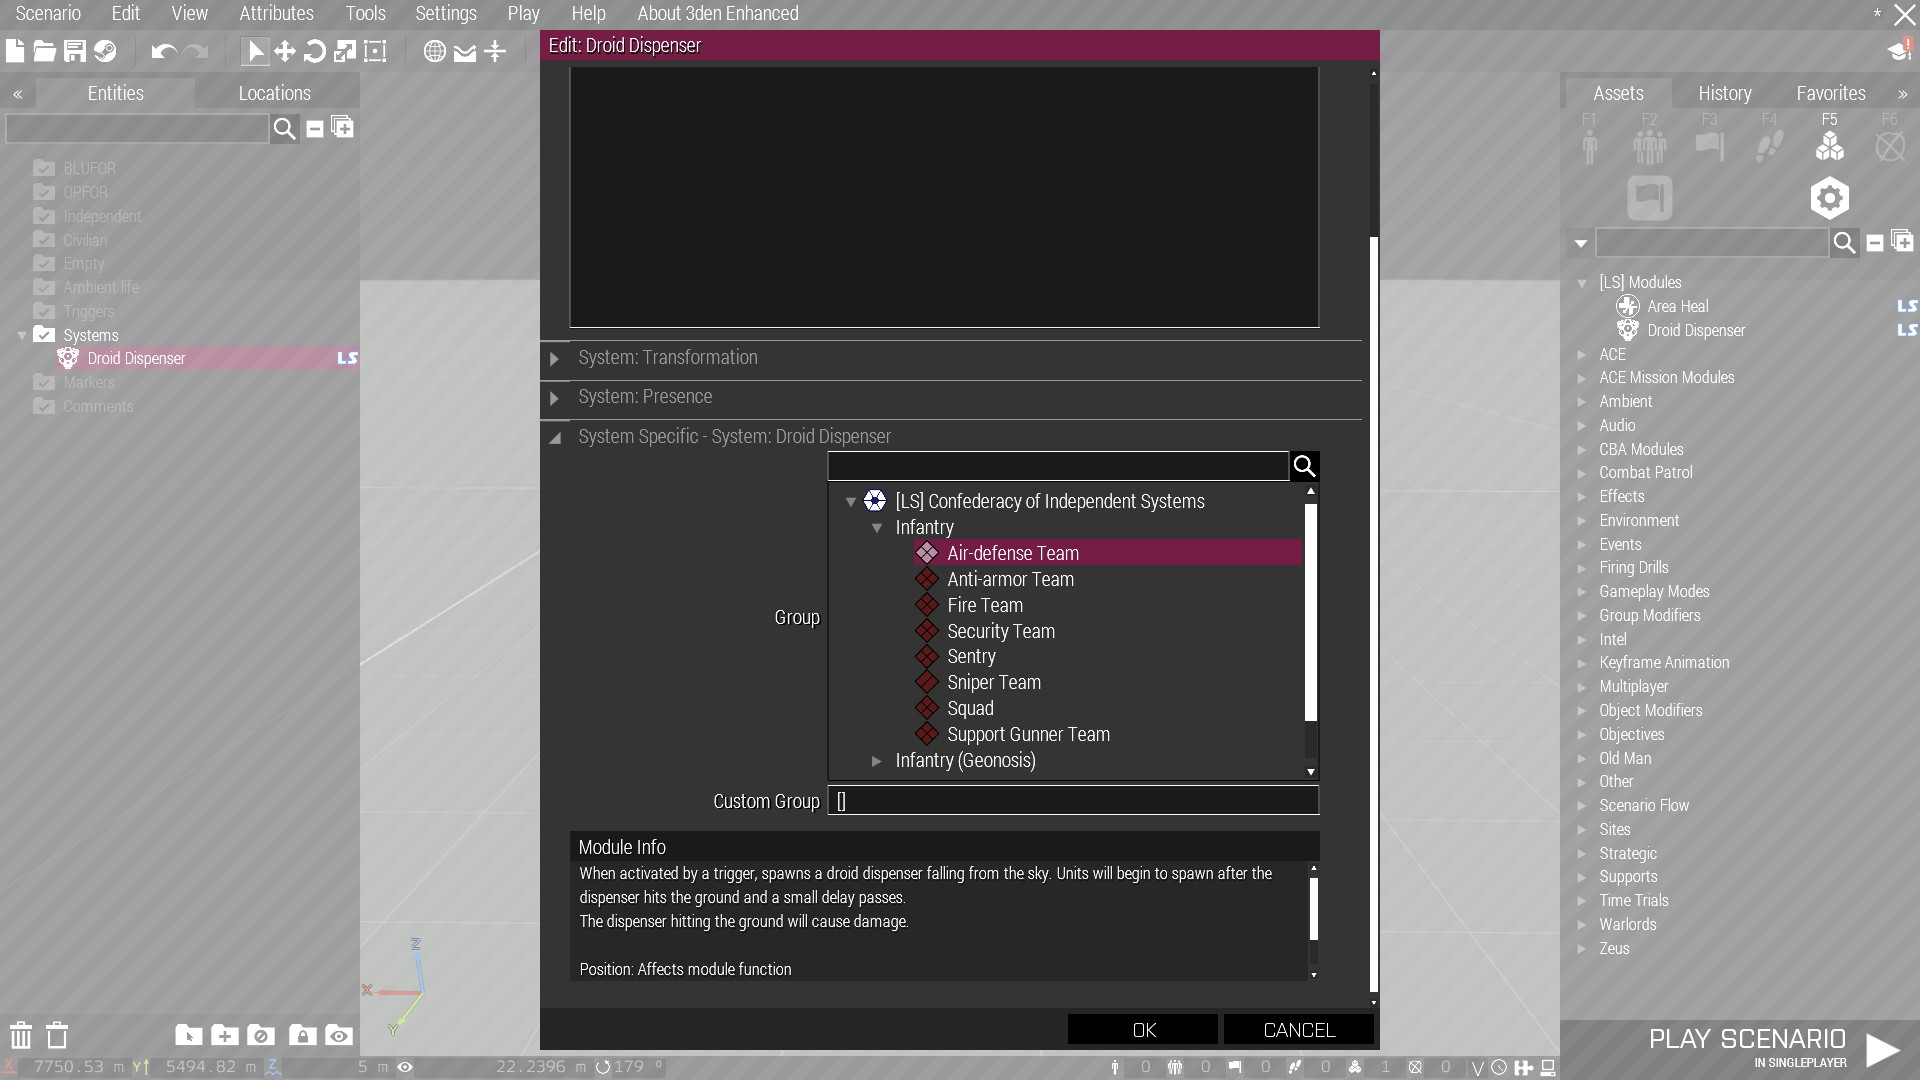
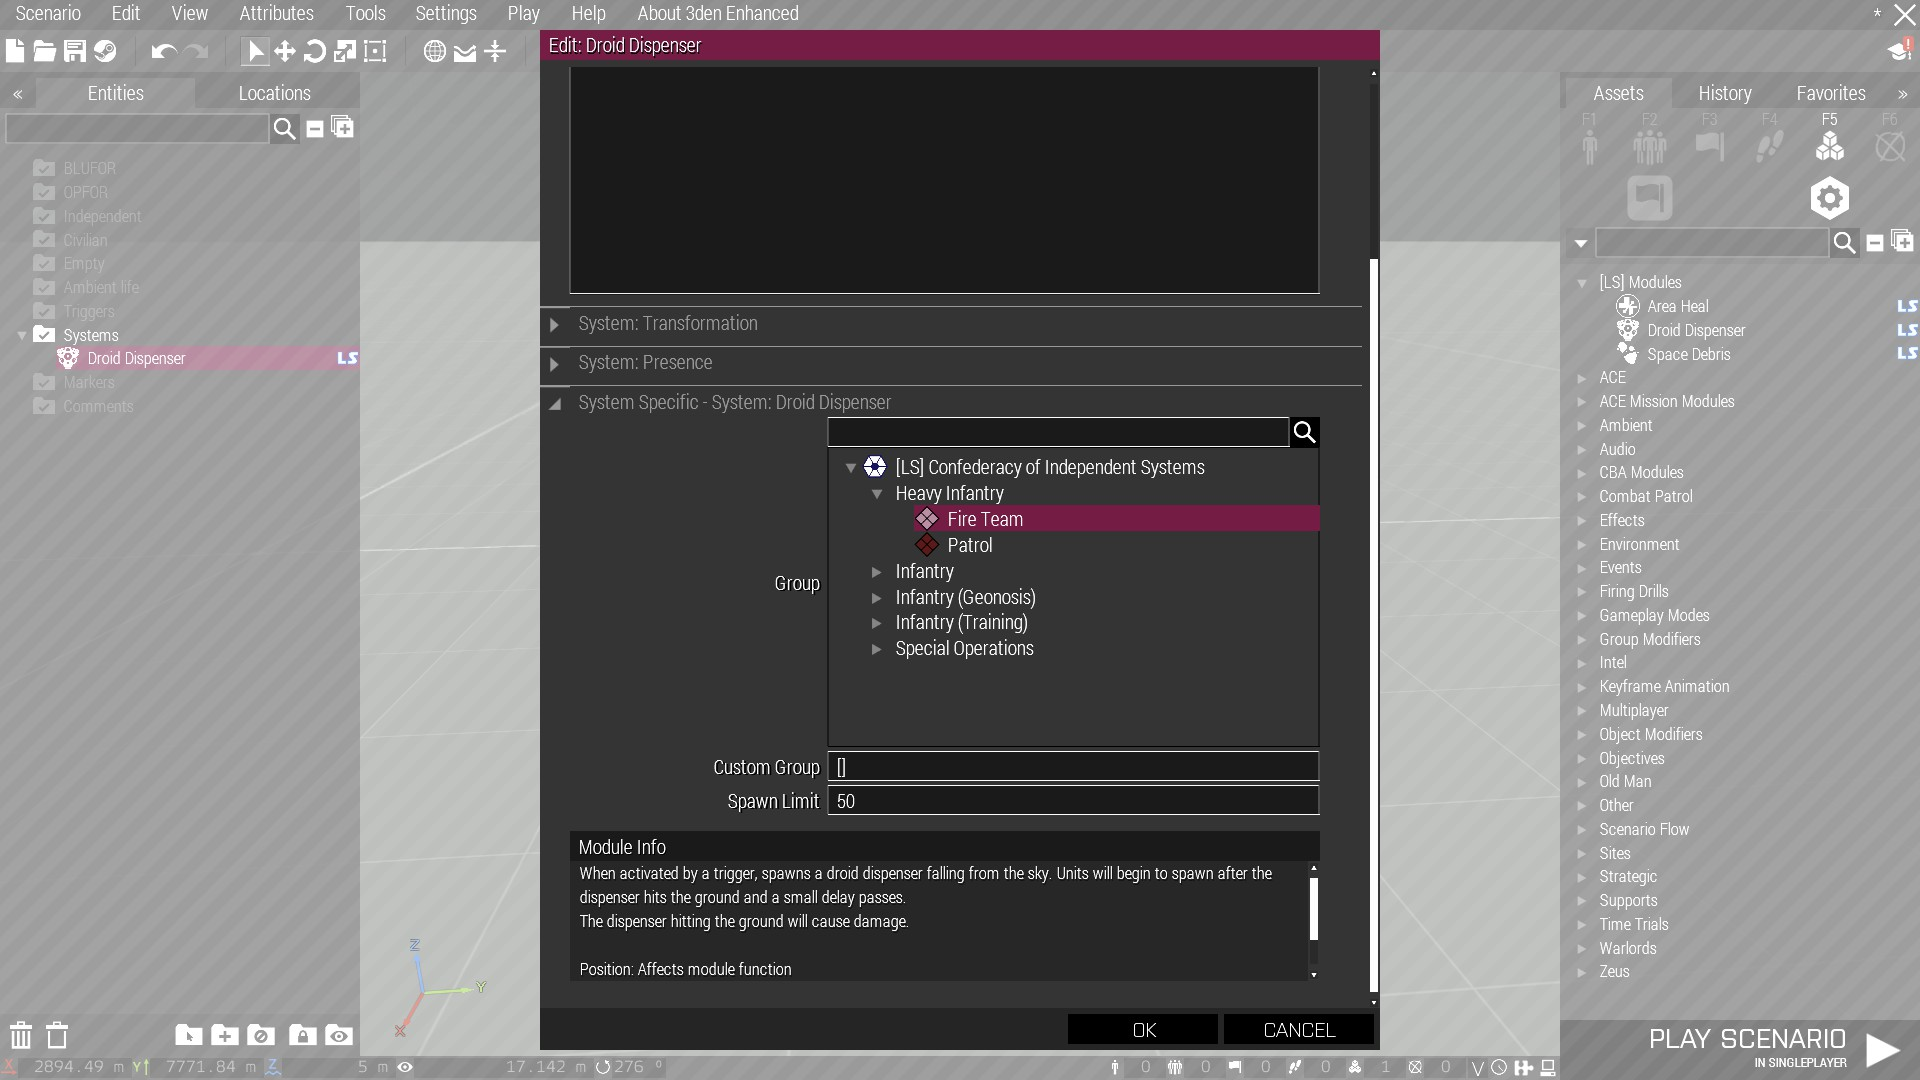
Add docs for spawn limit / dropDispenser api (#25)

diff --git a/frameworks/dispensers.md b/frameworks/dispensers.md
@@ -71,14 +71,15 @@ class CfgFactionClasses {
 };
 
 // Make sure ls_loadorder is present in your requiredAddons
-// Make sure to add the module class name to your units list to it appears in Zeus
+// Make sure to add the module class name to your `CfgPatches >> yourAddon >> units` list to it appears in Zeus
 class CfgVehicles {
     class ls_moduleDroidDispenser_zeus;
     class MyPrefix_moduleDroidDispenser_B1_zeus: ls_moduleDroidDispenser_zeus {
         author = "Me";
         displayName = "Droid Dispenser (B1)";
-
         category = "MyPrefix_modules";
+
+        ammo = "ls_dispenser_ordnance"; // Optional, ammo class name that is dropped
 
         // ls_dispenser_group can either be an string which points to a class in CfgGroups, using `>>` as a separator between class names
         // Or it can be an array of unit class names directly
@@ -86,6 +87,8 @@ class CfgVehicles {
         ls_dispenser_group[] = {"MyPrefix_B1", "MyPrefix_B1_Heavy"}; // Also valid
 
         ls_dispenser_vehicle = "ls_droidDispenser"; // Optional, you can use your own droid dispenser class if you'd like to change the textures, armor, etc.
+
+        ls_dispenser_limit = 50; // Optional, maximum number of units to spawn before the dispenser is deactivated
     };
 };
 ```
@@ -128,3 +131,31 @@ Sets the spawn group of a given droid dispenser. Handles changing the side of th
 
 #### Return Value
 None
+
+### 3.4 `ls_dispenser_fnc_dropDispenser`
+#### Description
+Spawns a falling dispenser at the given position, *note that the altitude is used directly, so spawning at [x, y, 0] will cause it to immediately land on the ground*. We reccomend a minimum height of 1000m. See [Module Configuration](frameworks/dispensers#id-2.-module-configuration) for more information on the dispenser parameters.
+
+#### Parameters
+| Index | Description      | Datatype(s) | Default Value |
+| ----- | ---------------- | ----------- | ------------- |
+| 0     | Dispenser params | Hashmap     |               |
+| 1     | PositionATL      | Array       |               |
+| 2     | Velocity         | Array       | [0, 0, -100]  |
+
+#### Return Value
+The created projectile
+
+#### Examples
+```sqf
+[createHashMapFromArray [
+    ["spawnGroup", "ls_cis>>cis_baseInfantry>>base_b1_fireteam"],
+], [0, 0, 1000]] call ls_dispenser_fnc_dropDispenser;
+
+[createHashMapFromArray [
+    ["spawnGroup", ["ls_droid_b1", "ls_droid_b2"]],
+    ["spawnLimit", 3], // Optional
+    ["dispenserClass", "ls_droidDispenser"], // Optional
+    ["ammoClass", "ls_dispenser_ordnance"] // Optional
+], [0, 0, 1000]] call ls_dispenser_fnc_dropDispenser;
+```

diff --git a/features/dispensers.md b/features/dispensers.md
@@ -14,6 +14,8 @@ You can use the search bar to search for a specific faction, category, or group 
 
 If you'd like more customization, you can also provide a list of unit class names in the "Custom Group" field. It should be formatted as `['unitClass1','unitClass2']`. Unit classes that aren't defined will be filtered out.
 
+By default, Droid Dispensers will automatically deactivate after spawning 50 units, you can set this limit to whatever you'd like or set it to -1 to make it spawn units until it is manually deactivated or destroyed.
+
 ### Eden
 To use the Eden module, simply place it from the `[LS] Modules` category. Double click on it and scroll down to the module settings.
 
